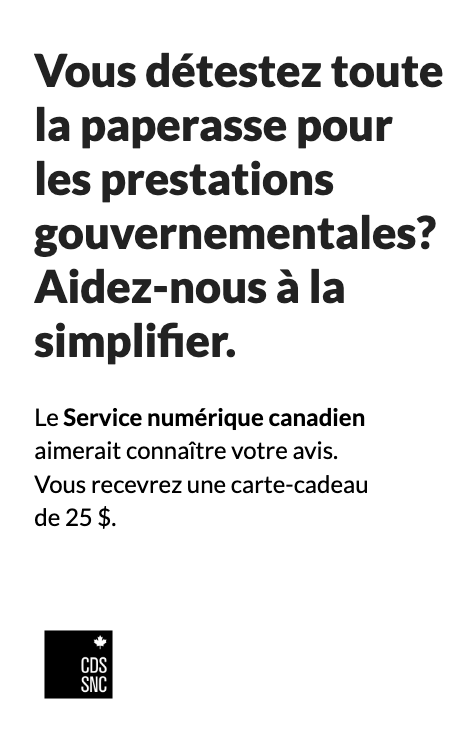
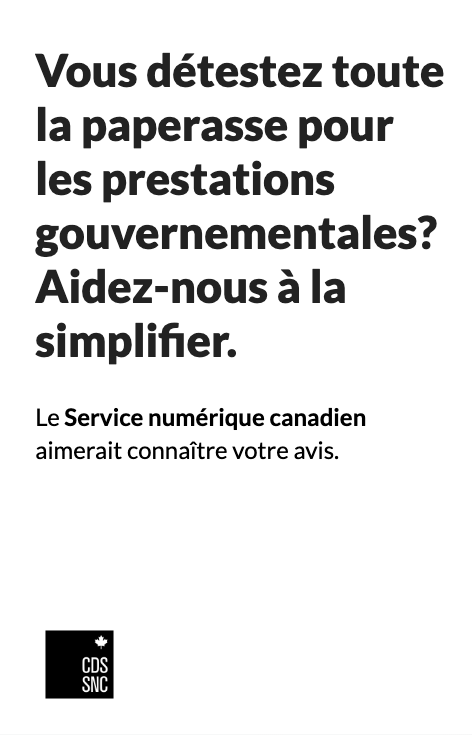
changed images

diff --git a/content/fr/blog/posts/réalisation-de-tests-par-interception-à-montréal.md b/content/fr/blog/posts/réalisation-de-tests-par-interception-à-montréal.md
@@ -61,7 +61,7 @@ thumb: /img/cds/field-note-train.jpg
                 <h3>Observations :</h3>
                 <h5>Jour 1 du recrutement par interception à Montréal – 2 décembre 2019</h5>
                 <p>Le matin, nous avons préparé notre table. Nous avions une affiche sur laquelle on pouvait lire : « Vous détestez toute la paperasse pour les prestations gouvernementales? Aidez-nous à la simplifier », en espérant que ça inciterait davantage les gens à participer, en plus de notre modeste rémunération pour leur temps.</p>
-                <img class="field-note-img" src="/img/cds/field-note-1-ad-fr.jpg" alt="Vous detestez toute la paperasse pour les presentations gouvernementales? Aidez-nous a la simplifier. Le Service numerique canadien aimerait connaitre votre avis. Vous recevrez une carte-cadeau de 25 $.">
+                <img class="field-note-img" src="/img/cds/field-note-1-ad-fr.jpg" alt="Vous detestez toute la paperasse pour les presentations gouvernementales? Aidez-nous a la simplifier. Le Service numerique canadien aimerait connaitre votre avis.">
                 <img class="field-note-img" src="/img/cds/cppd-team-research.jpg" alt="Des membres de l’équipe PI-RPC sont assis à une table avec des bannières du Service numérique canadien et des affiches visant à recruter des médecins pour leur recherche.">
                 <p>Les médecins étaient intéressés à participer à notre recherche, mais nous ont dit qu’ils ne pouvaient pas prendre 15 minutes pour s’asseoir avec nous.</p>
                 <h5>Jour 2 du recrutement par interception à Montréal – 3 décembre 2019</h5>

diff --git a/content/en/blog/posts/intercept-testing-in-montreal.md b/content/en/blog/posts/intercept-testing-in-montreal.md
@@ -65,7 +65,7 @@ thumb: /img/cds/field-note-train.jpg
                 <h3>Observations:</h3>
                 <h5>Intercept in Montreal Day 1 - Dec/02/2019</h5>
                 <p>We set up our table that morning. We had a sign that read, “Hate government benefits paperwork? Help us make it easier,” hoping it would offer an additional incentive on top of our small compensation for their time.</p>
-                <img class="field-note-img" src="/img/cds/field-note-1-ad.jpg" alt="Hate government benefits paper-work? Help us make it easier. The Canadian Digital Service would love your feedback. You'll receive a $25 gift card.">
+                <img class="field-note-img" src="/img/cds/field-note-1-ad.jpg" alt="Hate government benefits paper-work? Help us make it easier. The Canadian Digital Service would love your feedback.">
                 <img class="field-note-img" src="/img/cds/cppd-team-research.jpg" alt="Researchers from the CPP-D team sitting at a table with Canadian Digital Service banners and posters recruiting physicians for research">
                 <p>Physicians were interested in participating in our research,  but said they couldn’t spare 15 minutes to sit down with us. </p>
                 <h5>Intercept in Montreal Day 2 - Dec/03/2019</h5>
